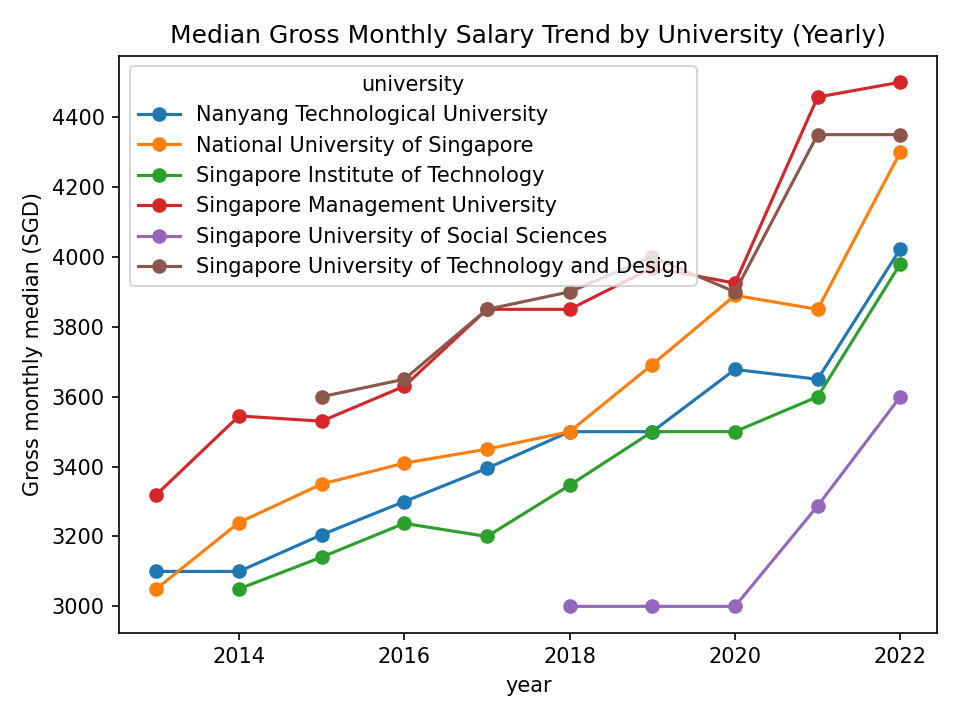
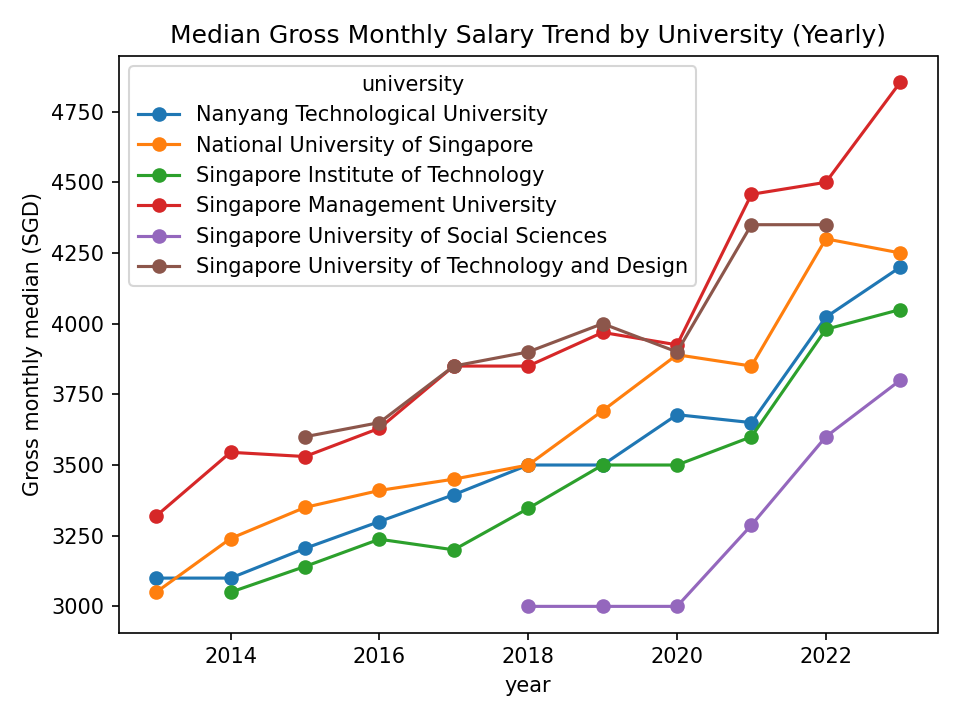
quick push

diff --git a/src/coursework1/1.2.py b/src/coursework1/1.2.py
@@ -41,6 +41,7 @@ def clean_base(df: pd.DataFrame) -> pd.DataFrame:
     ]
     for c in num_cols:
         if c in out.columns:
+            out[c] = out[c].astype(str).str.replace("%", "", regex=False)
             out[c] = to_num(out[c])
 
     # Drop exact duplicates
@@ -86,13 +87,25 @@ def ensure_not_empty(df: pd.DataFrame, label: str) -> None:
 
 # ============== Q1: Latest year, university ranking (bar plots) ==============
 def q1_prepare(df: pd.DataFrame) -> tuple[pd.DataFrame, int]:
-    """Prepare latest-year median by university for salary and employment rate."""
-    ly = latest_year(df)
-    if ly is None:
-        raise ValueError("No valid 'year' column found.")
+    # Count how many unique universities appear in each year
+    year_counts = df.groupby("year")["university"].nunique()
+    print("University coverage by year:")
+    print(year_counts.sort_index())
+
+    # Identify the most recent year with all 6 universities
+    full_years = year_counts[year_counts >= 6].index
+    if len(full_years) > 0:
+        ly = int(full_years.max())
+        print(f"✅ Using {ly} for Q1 (latest year with full university coverage).")
+    else:
+        # Fallback: choose the year with the maximum available universities
+        ly = int(year_counts.idxmax())
+        print(f"⚠ Using {ly} for Q1 (year with maximum available universities).")
+
+    # Filter the dataset for the selected year
     dfy = df[df["year"] == ly].copy()
 
-    # Keep only relevant cols
+    # Keep only the relevant columns
     need_cols = ["university", "gross_monthly_median", "employment_rate_overall"]
     keep = [c for c in need_cols if c in dfy.columns]
     dfy = dfy[keep].dropna()
@@ -100,7 +113,7 @@ def q1_prepare(df: pd.DataFrame) -> tuple[pd.DataFrame, int]:
     # Aggregate by university (median = robust to outliers)
     grp = dfy.groupby("university").median(numeric_only=True)
 
-    # Save table
+    # Save the result table
     save_table(
         grp.sort_values("gross_monthly_median", ascending=False),
         f"q1_latest_{ly}_by_university_median",
@@ -118,7 +131,7 @@ def q1_plot(grp: pd.DataFrame, ly: int) -> None:
         ].plot(
             kind="bar",
             figsize=(12, 6),
-            title=f"Median Gross Monthly Salary by University (Latest year {ly})",
+            title=f"Median Gross Monthly Salary by University (year {ly})",
             rot=0,
         )
         # right-align, rotate labels slightly to match bars
@@ -142,7 +155,7 @@ def q1_plot(grp: pd.DataFrame, ly: int) -> None:
         ].plot(
             kind="bar",
             figsize=(12, 6),
-            title=f"Median Employment Rate by University (Latest year {ly})",
+            title=f"Median Employment Rate by University (year {ly})",
             rot=0,
         )
         ax.set_xticklabels(ax.get_xticklabels(), rotation=30, ha="right")
@@ -195,14 +208,26 @@ def q2_plot(trend_df: pd.DataFrame) -> None:
 
 # ============== Q3: Relationship between employment rate and salary (scatter) ==============
 def q3_prepare(df: pd.DataFrame) -> tuple[pd.DataFrame, int]:
-    """Latest-year per-record data (course granularity) for scatter plot."""
-    ly = latest_year(df)
+    # Force use of 2022 for consistent comparison across all universities
+    ly = 2022
+    print(f"⚙ Using {ly} for Q3 (consistent with Q1 full coverage year).")
+
+    # Filter records for that year
     d = df[df["year"] == ly].copy()
+
+    # Keep only required numeric columns
     need = ["employment_rate_overall", "gross_monthly_median"]
     ok = [c for c in need if c in d.columns]
     d = d[ok].dropna()
-    ensure_not_empty(d, "Q3 latest-year scatter")
-    save_table(d.describe().transpose(), f"q3_latest_{ly}_scatter_numeric_describe")
+
+    ensure_not_empty(d, f"Q3 {ly} scatter dataset")
+
+    # Save summary statistics
+    save_table(
+        d.describe().transpose(),
+        f"q3_latest_{ly}_scatter_numeric_describe",
+    )
+
     return d, ly
 
 
@@ -211,7 +236,7 @@ def q3_plot(scatter_df: pd.DataFrame, ly: int) -> None:
         kind="scatter",
         x="employment_rate_overall",
         y="gross_monthly_median",
-        title=f"Employment Rate vs Gross Monthly Median (Latest year {ly})",
+        title=f"Employment Rate vs Gross Monthly Median (year {ly})",
     )
     ax.set_xlabel("Employment rate (%)")
     ax.set_ylabel("Gross monthly median (SGD)")
@@ -230,6 +255,7 @@ def main() -> None:
 
     try:
         df = pd.read_csv(file_path, encoding="utf-8-sig")
+        print(df["year"].unique())
     except UnicodeDecodeError:
         df = pd.read_csv(file_path)
 

diff --git a/prep_output/q2_trend_table_year_univ_salary_median.md b/prep_output/q2_trend_table_year_univ_salary_median.md
@@ -10,3 +10,4 @@
 |   2020 |                               3678 |                               3890 |                              3500   |                            3925   |                                    3000   |                                            3900 |
 |   2021 |                               3650 |                               3850 |                              3600   |                            4457.5 |                                    3287.5 |                                            4350 |
 |   2022 |                               4023 |                               4300 |                              3980   |                            4500   |                                    3600   |                                            4350 |
+|   2023 |                               4200 |                               4250 |                              4050   |                            4854   |                                    3800   |                                             nan |
